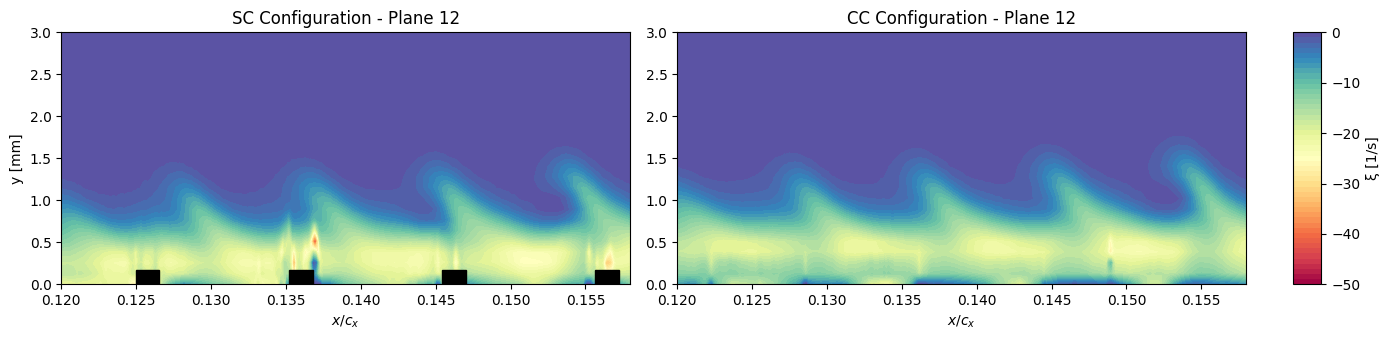
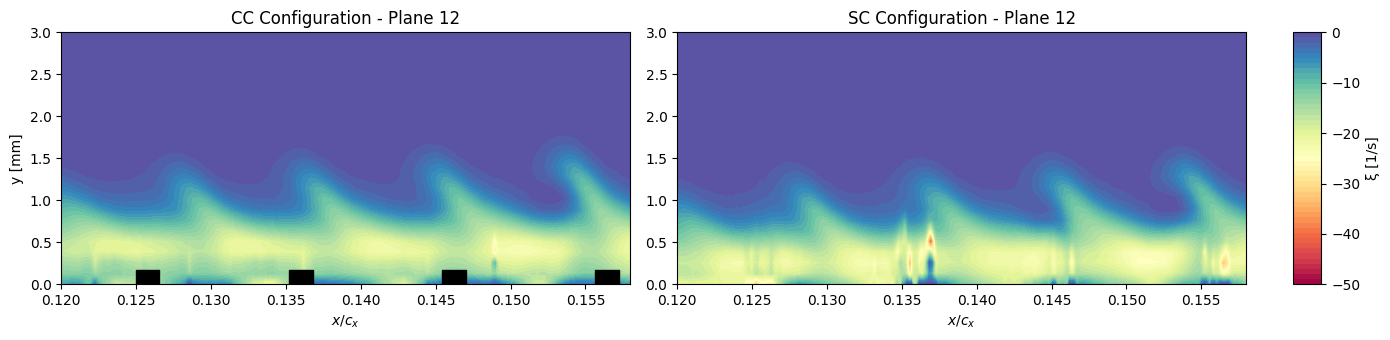
vorticity plot update

diff --git a/vorticityplot_combined.py b/vorticityplot_combined.py
@@ -2,7 +2,7 @@ import matplotlib.pyplot as plt
 from matplotlib import patches
 import numpy as np
 from pathlib import Path
-import matplotlib.gridspec as gridspec  # Import gridspec
+import matplotlib.gridspec as gridspec
 
 # Fixed color range for all plots
 cmin = -50
@@ -24,42 +24,14 @@ for k in range(1, 5):
 
 for i in range(0, 24):
     # Create figure with GridSpec layout
-    fig = plt.figure(figsize=(14, 3.5))  # Slightly wider figure
-    gs = gridspec.GridSpec(1, 3, width_ratios=[1, 1, 0.05])  # 3 columns: SC, CC, colorbar
+    fig = plt.figure(figsize=(14, 3.5))
+    gs = gridspec.GridSpec(1, 3, width_ratios=[1, 1, 0.05])  # Columns: CC, SC, colorbar
     
-    ax1 = plt.subplot(gs[0])  # SC plot
-    ax2 = plt.subplot(gs[1])  # CC plot
+    ax1 = plt.subplot(gs[0])  # CC plot (left)
+    ax2 = plt.subplot(gs[1])  # SC plot (right)
     cax = plt.subplot(gs[2])  # Colorbar axis
     
-    # Process SC configuration
-    ccsc = "SC"
-    file_path = Path('Vorticity')/f'Case_{ccsc}_Span_{i+1}.txt_vorticity.csv'
-    with open(file_path) as file2:
-        matrix = np.genfromtxt(file2, delimiter=',', filling_values=np.nan)
-    x = matrix[0][1:]
-    y = matrix[20:,0]
-    z_sliced = matrix[20:,1:]
-    with open(f'PIV_planes_dimensionalised/Case_{ccsc}_Span_{i+1}.txt_u.csv') as file3:
-        xdimension = np.genfromtxt(file3, delimiter=',', filling_values=np.nan)[0][2:]
-    X, Y = np.meshgrid(xdimension, y)
-    Z = np.clip(z_sliced, cmin, cmax)
-    
-    # Plot SC
-    c1 = ax1.contourf(X, Y, Z, levels=levels, cmap='Spectral', norm=norm)
-    ax1.set_title(f"SC Configuration - Plane {i+1}")
-    ax1.set_xlabel('$x/c_x$')
-    ax1.set_ylabel('y [mm]')
-    ax1.set_xlim(0.12, 0.158)
-    ax1.set_ylim(0, 3)
-    
-    # Add rectangles for SC
-    for left in rectLeft:
-        rect = patches.Rectangle(
-            (left, 0.0), width_dim, height_mm, color='black'
-        )
-        ax1.add_patch(rect)
-    
-    # Process CC configuration
+    # Process CC configuration (left plot)
     ccsc = "CC"
     file_path = Path('Vorticity')/f'Case_{ccsc}_Span_{i+1}.txt_vorticity.csv'
     with open(file_path) as file2:
@@ -72,17 +44,45 @@ for i in range(0, 24):
     X, Y = np.meshgrid(xdimension, y)
     Z = np.clip(z_sliced, cmin, cmax)
     
-    # Plot CC
+    # Plot CC (left)
+    c1 = ax1.contourf(X, Y, Z, levels=levels, cmap='Spectral', norm=norm)
+    ax1.set_title(f"CC Configuration - Plane {i+1}")
+    ax1.set_xlabel('$x/c_x$')
+    ax1.set_ylabel('y [mm]')
+    ax1.set_xlim(0.12, 0.158)
+    ax1.set_ylim(0, 3)
+    
+    # Process SC configuration (right plot)
+    ccsc = "SC"
+    file_path = Path('Vorticity')/f'Case_{ccsc}_Span_{i+1}.txt_vorticity.csv'
+    with open(file_path) as file2:
+        matrix = np.genfromtxt(file2, delimiter=',', filling_values=np.nan)
+    x = matrix[0][1:]
+    y = matrix[20:,0]
+    z_sliced = matrix[20:,1:]
+    with open(f'PIV_planes_dimensionalised/Case_{ccsc}_Span_{i+1}.txt_u.csv') as file3:
+        xdimension = np.genfromtxt(file3, delimiter=',', filling_values=np.nan)[0][2:]
+    X, Y = np.meshgrid(xdimension, y)
+    Z = np.clip(z_sliced, cmin, cmax)
+    
+    # Plot SC (right)
     c2 = ax2.contourf(X, Y, Z, levels=levels, cmap='Spectral', norm=norm)
-    ax2.set_title(f"CC Configuration - Plane {i+1}")
+    ax2.set_title(f"SC Configuration - Plane {i+1}")
     ax2.set_xlabel('$x/c_x$')
     ax2.set_xlim(0.12, 0.158)
     ax2.set_ylim(0, 3)
     
-    # Add shared colorbar in its dedicated axis
+    # Add rectangles to SC plot (right side)
+    for left in rectLeft:
+        rect = patches.Rectangle(
+            (left, 0.0), width_dim, height_mm, color='black'
+        )
+        ax2.add_patch(rect)
+    
+    # Add shared colorbar
     cbar = fig.colorbar(c1, cax=cax, label="ξ [1/s]")
     cbar.set_ticks(np.arange(-50, 10, 10))  # Consistent ticks: -50, -40, ..., 0
     
     plt.tight_layout()
-    plt.savefig(f"VorticityPlots/Span_{i+1}_SC_CC.png", bbox_inches='tight')
+    plt.savefig(f"VorticityPlots/Span_{i+1}_CC_SC.png", bbox_inches='tight')  # Updated filename
     plt.close(fig)
